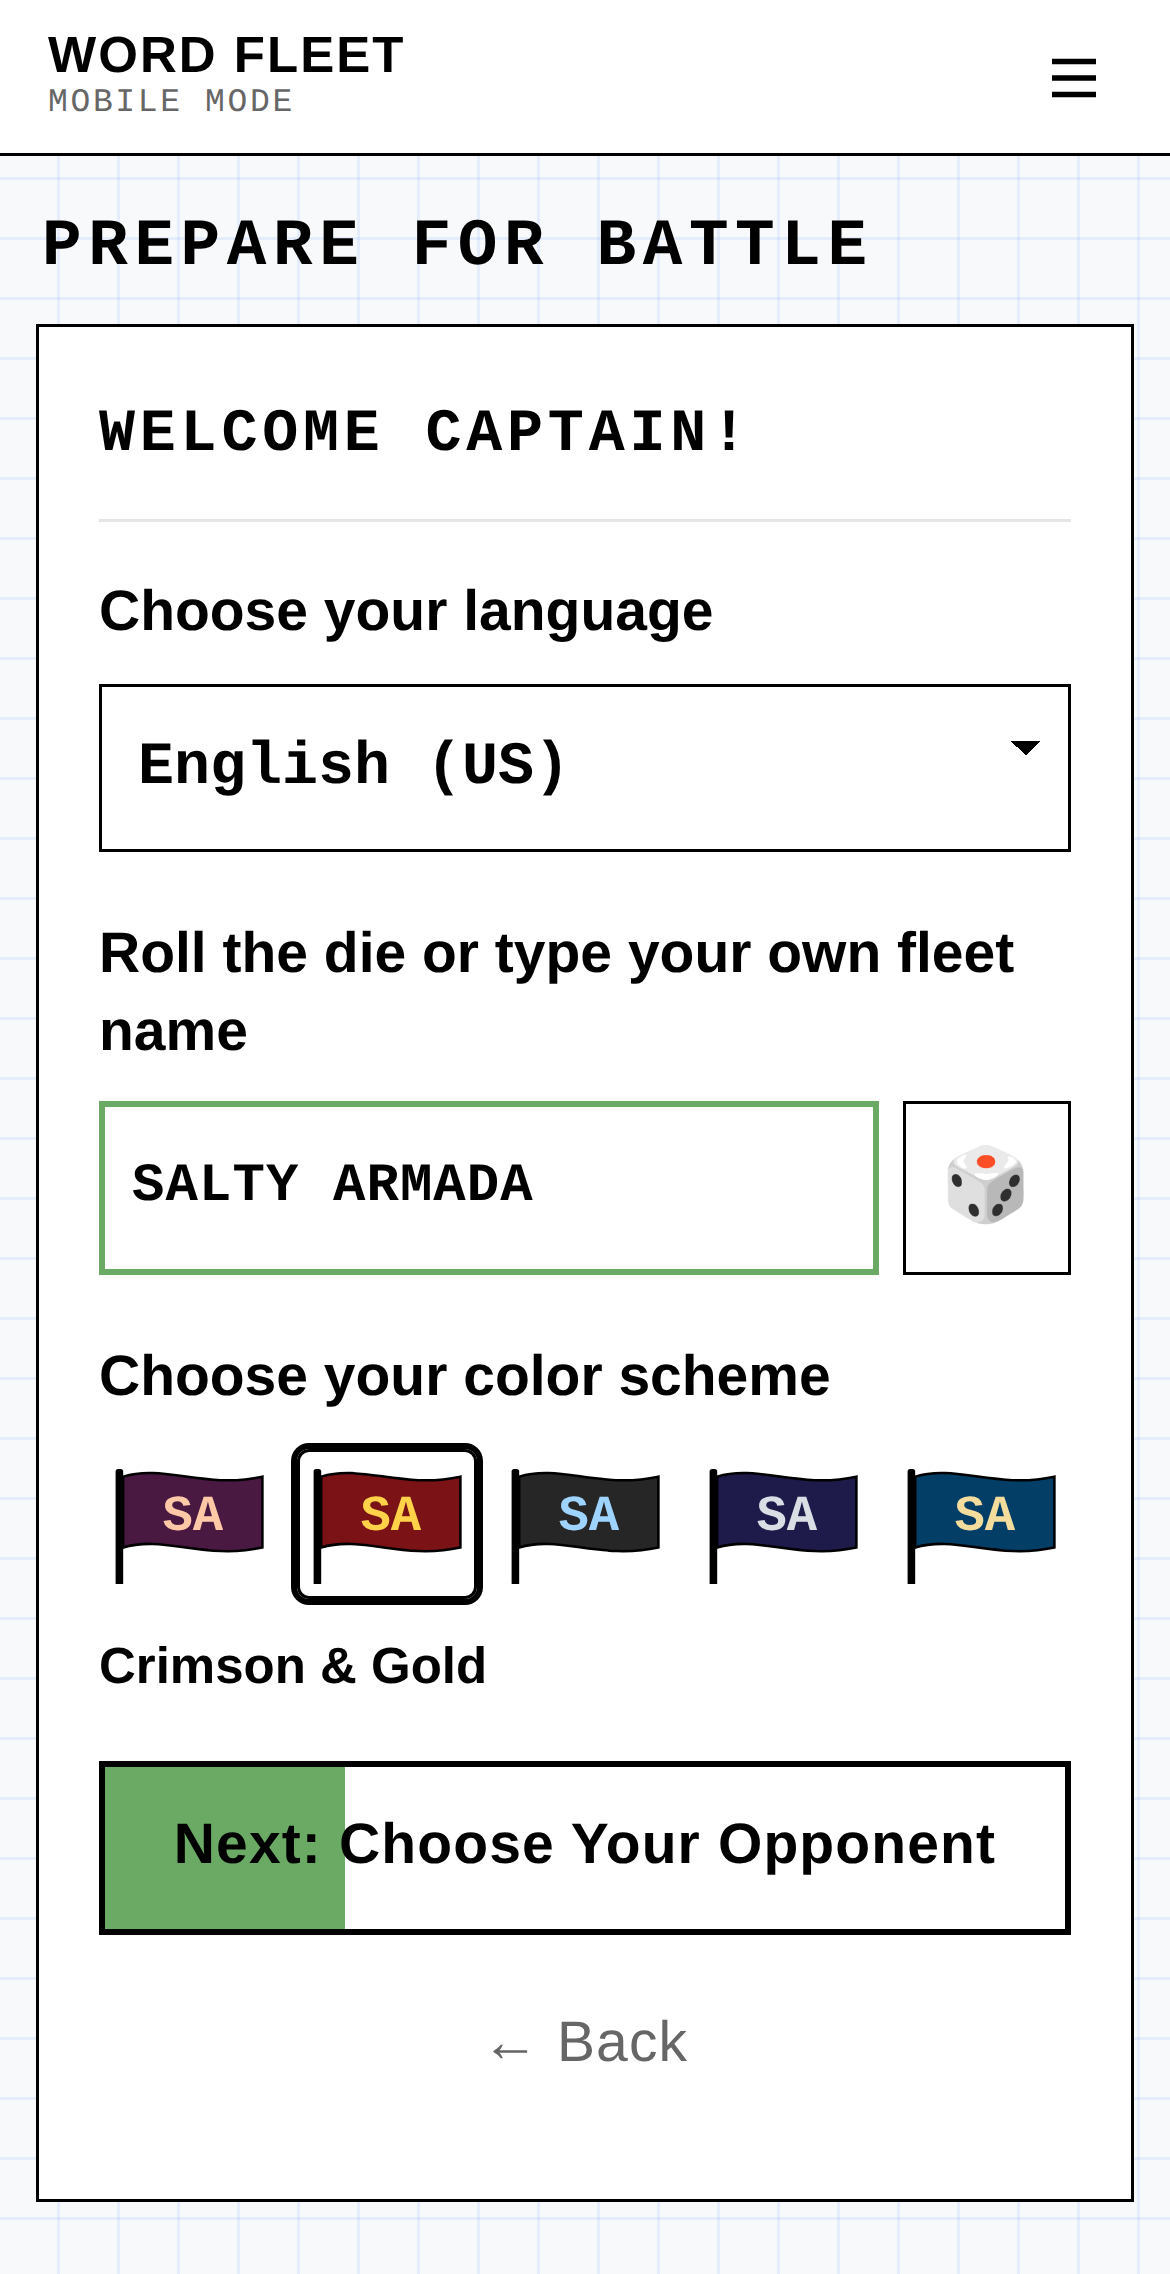
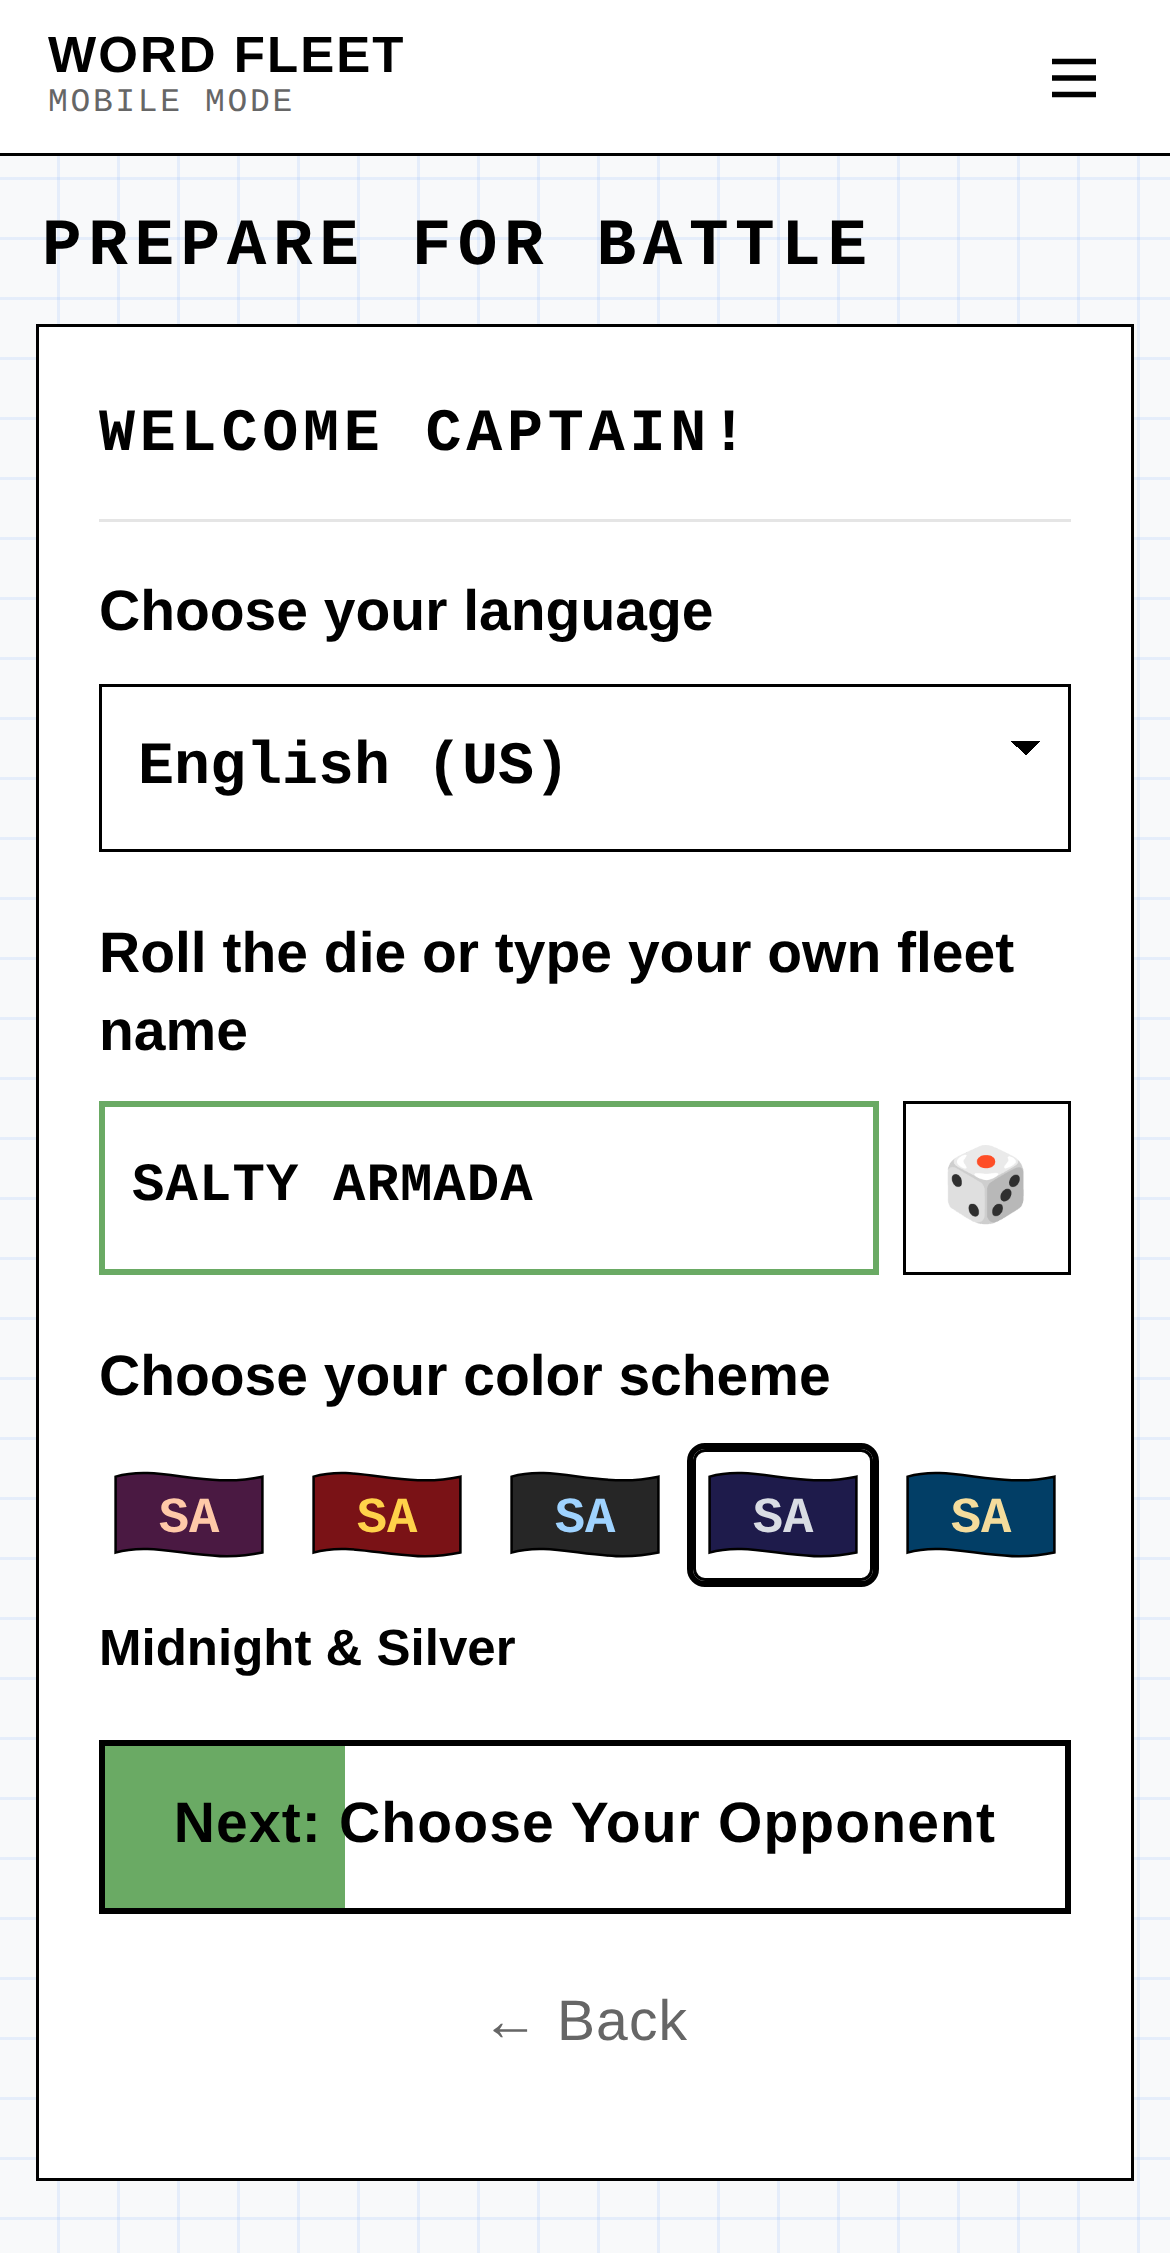
001: flags without poles
Claude-Session: https://claude.ai/code/session_013sUGAAEC45a1EJCrQWVj9Q

diff --git a/mobile/app.js b/mobile/app.js
@@ -411,13 +411,12 @@
     return (name || '').trim().split(/\s+/).map(function (w) { return w.replace(/^[^A-Za-zÀ-ÿ]+/, '').charAt(0); }).join('').toUpperCase().slice(0, 5);
   }
 
-  // A small waving flag in a color scheme: first color for the cloth, second for the fleet initials.
+  // A small waving flag (no pole) in a color scheme: first color for the cloth, second for the fleet initials.
   function flagSvg(cs, initials) {
     var size = initials.length <= 2 ? 20 : initials.length === 3 ? 16 : 12;
-    return '<svg viewBox="0 0 64 48" aria-hidden="true">' +
-      '<rect x="3" y="2" width="3" height="46" rx="1" fill="#000"/>' +
-      '<path d="M6 5 C22 0 38 10 61 5 L61 33 C38 38 22 28 6 33 Z" fill="' + cs.colors[0] + '" stroke="#000" stroke-width="1"/>' +
-      '<text x="33.5" y="19" dy="0.35em" text-anchor="middle" font-family="Courier Prime, monospace" font-weight="700" font-size="' + size + '" fill="' + cs.colors[1] + '">' + esc(initials) + '</text>' +
+    return '<svg viewBox="0 0 64 40" aria-hidden="true">' +
+      '<path d="M3 5 C20 0 38 10 61 5 L61 35 C38 40 20 30 3 35 Z" fill="' + cs.colors[0] + '" stroke="#000" stroke-width="1"/>' +
+      '<text x="32" y="20" dy="0.35em" text-anchor="middle" font-family="Courier Prime, monospace" font-weight="700" font-size="' + size + '" fill="' + cs.colors[1] + '">' + esc(initials) + '</text>' +
       '</svg>';
   }
 

diff --git a/mobile/index.html b/mobile/index.html
@@ -18,7 +18,7 @@
   <link rel="preconnect" href="https://fonts.gstatic.com" crossorigin>
   <link href="https://fonts.googleapis.com/css2?family=Courier+Prime:wght@400;700&family=Inter:wght@400;500;600;700&display=swap" rel="stylesheet">
   <!-- Bump ?v= on every release (and CACHE in sw.js) so a new page never runs old code. -->
-  <link rel="stylesheet" href="app.css?v=62">
+  <link rel="stylesheet" href="app.css?v=63">
 </head>
 <body>
 
@@ -222,7 +222,7 @@
 
 <div class="toast" id="toast" hidden></div>
 
-<script src="audio.js?v=62"></script>
-<script src="app.js?v=62"></script>
+<script src="audio.js?v=63"></script>
+<script src="app.js?v=63"></script>
 </body>
 </html>

diff --git a/mobile/sw.js b/mobile/sw.js
@@ -1,11 +1,11 @@
 /* Word Fleet service worker: the whole game works offline once loaded. */
-var CACHE = 'wordfleet-v62';
+var CACHE = 'wordfleet-v63';
 var SHELL = [
   './',
   'index.html',
-  'app.css?v=62',
-  'app.js?v=62',
-  'audio.js?v=62',
+  'app.css?v=63',
+  'app.js?v=63',
+  'audio.js?v=63',
   'manifest.webmanifest',
   'icons/icon-180.png',
   'icons/icon-192.png',

diff --git a/mobile/screens/README.md b/mobile/screens/README.md
@@ -8,7 +8,7 @@ referred to by name when asking for changes. Each has a reference snapshot in th
 | Name | In the code | Snapshot | What it is |
 | --- | --- | --- | --- |
 | **MOBILE-HOME** *(parked)* | `<section id="scrMobileHome" data-screen="MOBILE-HOME">`, `SCREENS.home` | `mobile-home.png` | **Parked, not shown to players.** Kept for later use. Was the first screen: WORD FLEET title, Mobile Mode tag, blurb, New Battle and Rules of Engagement buttons. The app now opens on 001-MOBILE-PREPARE. |
-| **001-MOBILE-PREPARE** | `<section id="scrSetup" data-screen="001-MOBILE-PREPARE">`, `SCREENS.setup` | `001-mobile-prepare.png` | **First screen players see.** Card title "Welcome Captain!". "Choose your language", then "Roll the die or type your own fleet name" (with dice). "Choose your color scheme": five two-color swatches (Plum & Peach, Crimson & Gold, Charcoal & Sky, Midnight & Silver, Ocean & Sand; no greens, which belong to the game's own colors), each a dark color with a light text color at least 7:1 contrast, each drawn as a flag flying the fleet's initials (first letter of each word) in the text color, saved as `S.colors`. A random scheme is chosen on load until the captain picks one. Not applied anywhere yet. Changing language rolls a new fleet name in that language (`dictionaries/fleet-names.json`). Button "Next: Choose Your Opponent", filled 25% green as a progress bar. "← Back" goes to the Word Fleet home page (`../`, the site's `index.html`). Screens 001-004 share one look: a "PREPARE FOR BATTLE" page header above the card (`.page-head`), the step's card title, plain-language section headers (`.label--say`), and large, easy-to-read text (`.setup-big`). |
+| **001-MOBILE-PREPARE** | `<section id="scrSetup" data-screen="001-MOBILE-PREPARE">`, `SCREENS.setup` | `001-mobile-prepare.png` | **First screen players see.** Card title "Welcome Captain!". "Choose your language", then "Roll the die or type your own fleet name" (with dice). "Choose your color scheme": five two-color swatches (Plum & Peach, Crimson & Gold, Charcoal & Sky, Midnight & Silver, Ocean & Sand; no greens, which belong to the game's own colors), each a dark color with a light text color at least 7:1 contrast, each drawn as a waving flag (no pole) flying the fleet's initials (first letter of each word) in the text color, saved as `S.colors`. A random scheme is chosen on load until the captain picks one. Not applied anywhere yet. Changing language rolls a new fleet name in that language (`dictionaries/fleet-names.json`). Button "Next: Choose Your Opponent", filled 25% green as a progress bar. "← Back" goes to the Word Fleet home page (`../`, the site's `index.html`). Screens 001-004 share one look: a "PREPARE FOR BATTLE" page header above the card (`.page-head`), the step's card title, plain-language section headers (`.label--say`), and large, easy-to-read text (`.setup-big`). |
 | **002-MOBILE-OPPONENT** | `<section id="scrOpponent" data-screen="002-MOBILE-OPPONENT">`, `SCREENS.opponent` | `002-mobile-opponent.png` | Card title "Choose Your Opponent", section "Pick the AI Captain you'll face": the three AI Captains (Captain Rubber Duck, Captain Steady, Captain Lexicon), each with a short character sketch. Button "Next: Build Your Word-Ships", filled 50% green. |
 | **003-MOBILE-WORD-SHIPS** | `<section id="scrWords" data-screen="003-MOBILE-WORD-SHIPS">`, `SCREENS.words` | `003-mobile-word-ships.png` | Card title "Build Your Word-Ships". Section "Offensive words": a "Possibly Offensive Words OK" on/off switch, "Applies to both fleets." Section "Your five word-ships" (Refresh All at the right end of its header): "Tap any word to type your own." The five word-ships arrive drawn for your opponent and are editable, each with a ↻ redraw. A typed word is checked against the dictionary when its box loses focus, and every word is checked again on "Next: Deploy Your Fleet" (filled 75% green). |
 | **004-MOBILE-DEPLOY** | `<section id="scrDeploy" data-screen="004-MOBILE-DEPLOY">`, `SCREENS.deploy` | `004-mobile-deploy.png` | Step 4 of 4 of Prepare for Battle, same look as 001-003. Card title "Deploy Your Fleet", then the Defense Grid dressed like the in-game one (navy "DEFENSE GRID PREVIEW" banner with your fleet name under it, navy top edge). Opens with the five word-ships already deployed at random, in green; they never leave the grid. Section "Keep this layout or rearrange it" with a Shuffle button (new random layout); drag a ship to move it, double-tap its first letter to turn it. "LET THE BATTLE BEGIN!" (progress bar full), Back. |
